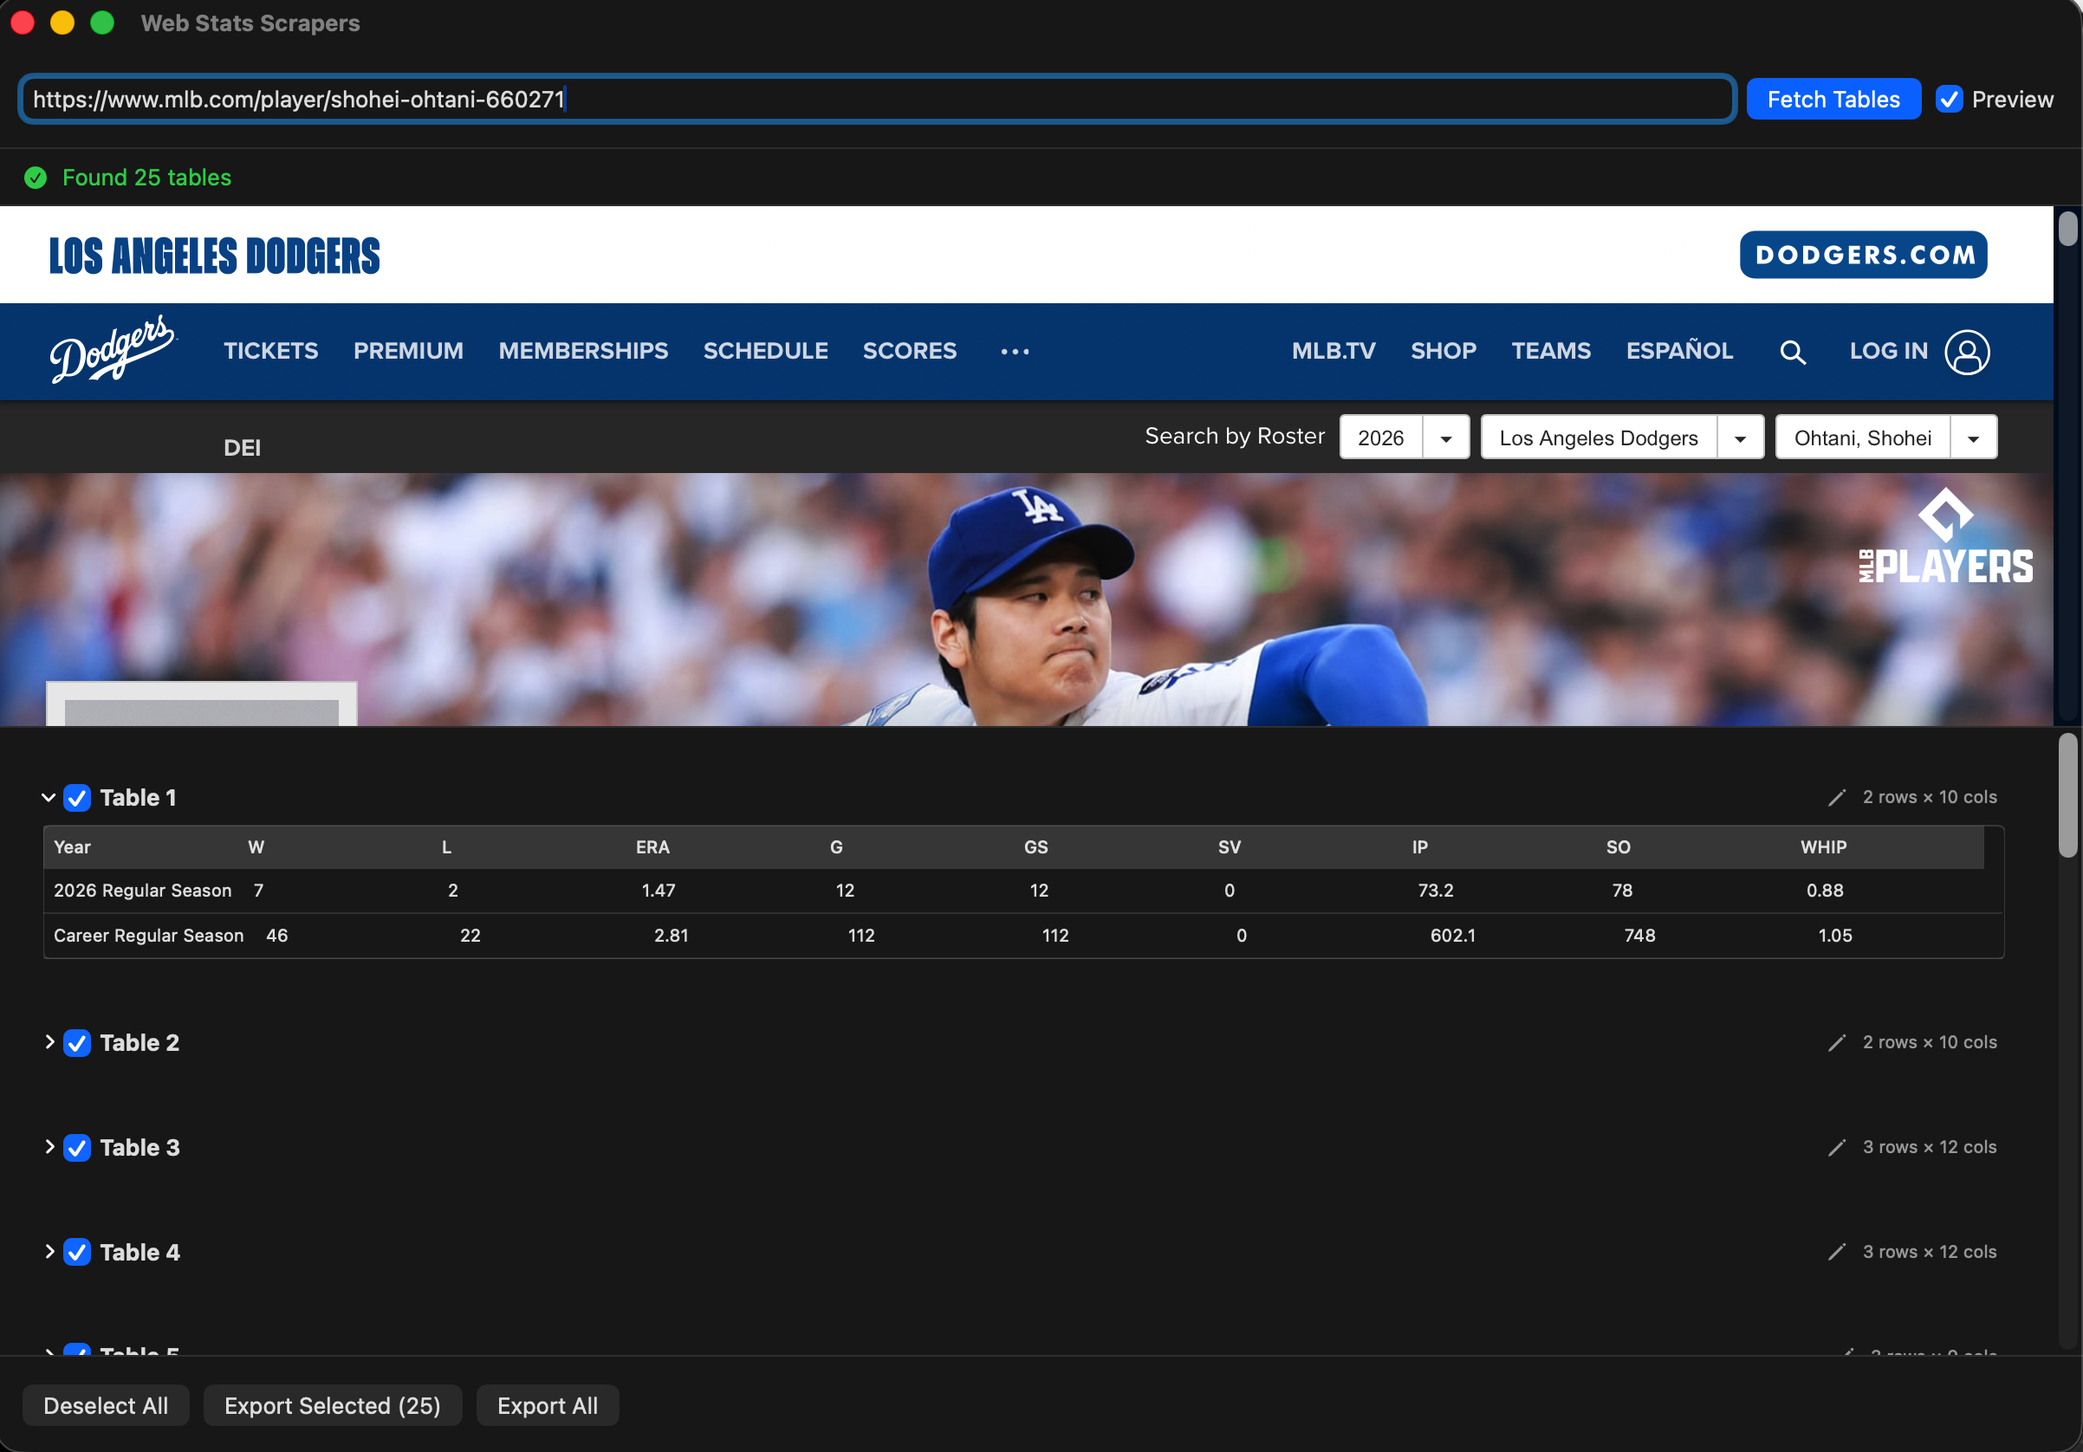
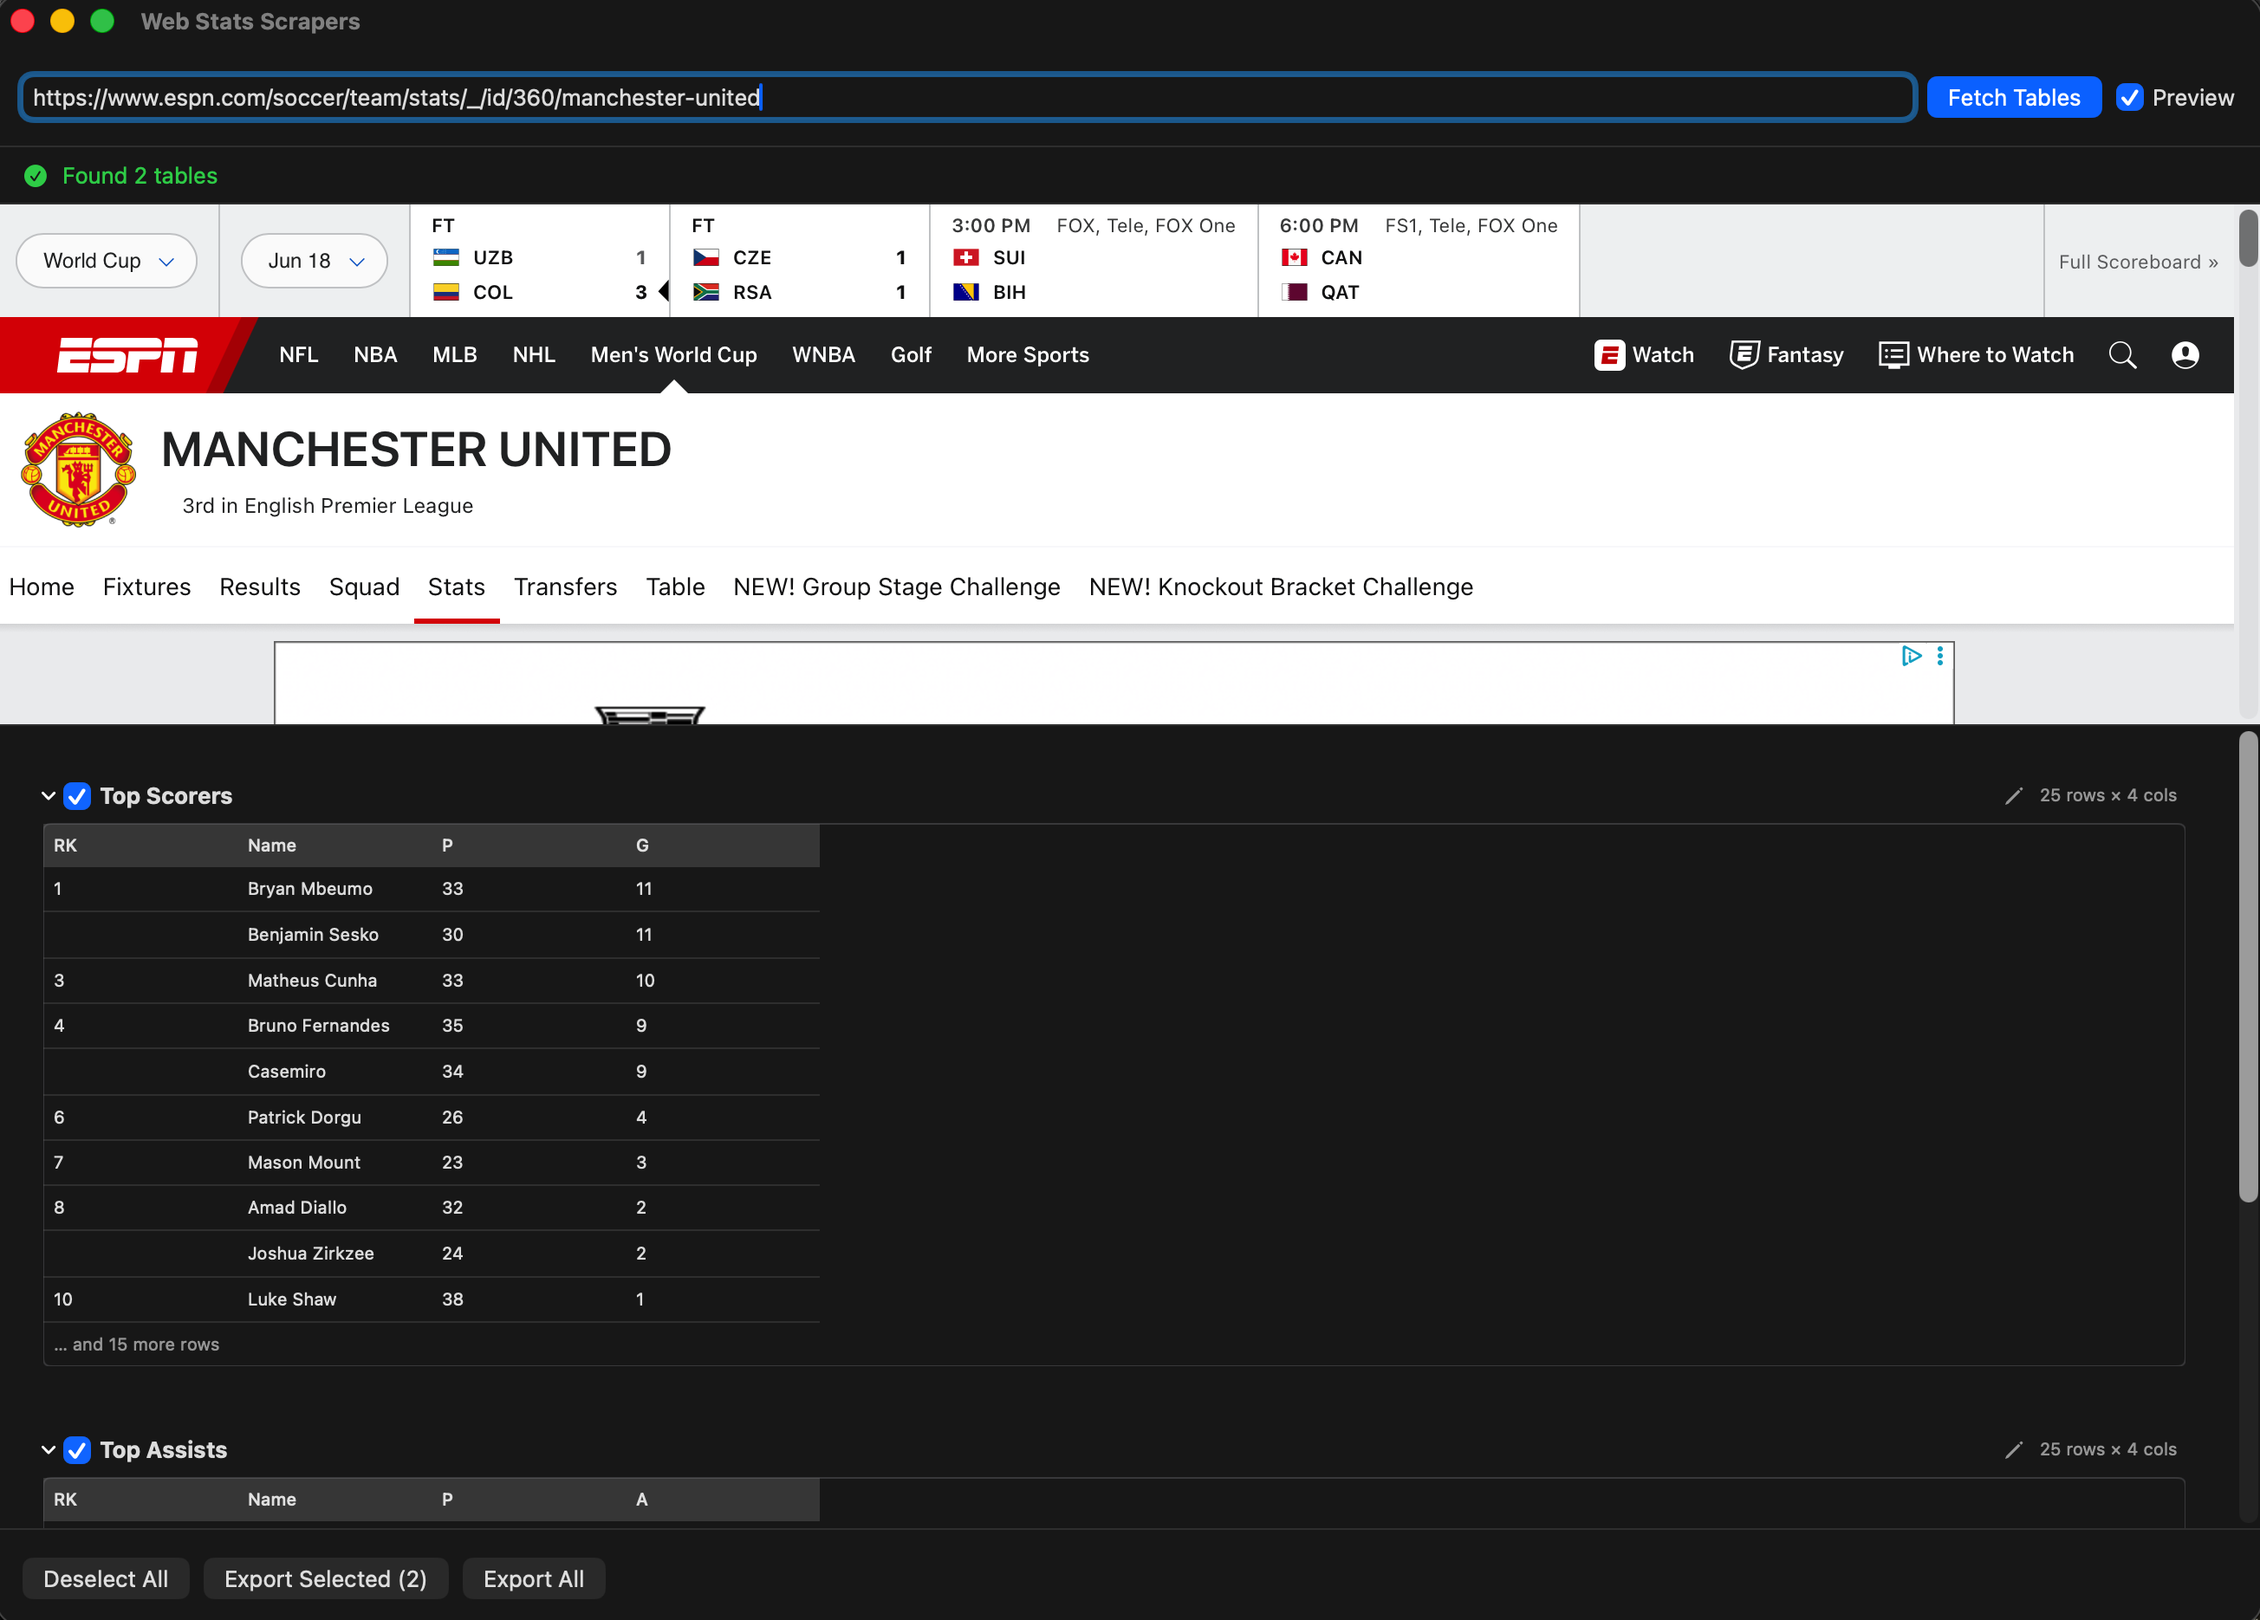
Restore table name detection; update README with bot-check guidance and new screenshot

diff --git a/SQL Python Learning/WebViewFetcher.swift b/SQL Python Learning/WebViewFetcher.swift
@@ -88,6 +88,145 @@ class WebViewFetcher: NSObject, WKNavigationDelegate {
 
     private static let extractionScript = """
     (function() {
+        // Convert a camelCase, snake_case, or kebab-case string to Title Case
+        function formatName(str) {
+            return str
+                .replace(/([a-z])([A-Z])/g, '$1 $2')
+                .split(/[_\\-\\s]+/)
+                .filter(function(p) { return p.length > 0 && !/^\\d+$/.test(p); })
+                .map(function(p) { return p.charAt(0).toUpperCase() + p.slice(1).toLowerCase(); })
+                .join(' ');
+        }
+
+        // Find the best human-readable title for a table by checking, in order:
+        // caption, ARIA/data attributes, nearby title divs, preceding headings,
+        // ancestor headings/labels/active tabs, and finally ids/class names.
+        function detectTitle(table, resultIndex) {
+            var title = '';
+
+            // 1. <caption> inside the table
+            var caption = table.querySelector('caption');
+            if (caption) title = caption.textContent.trim();
+
+            // 2. aria-label, data-title, or summary on the table itself
+            if (!title) title = (table.getAttribute('aria-label') || '').trim();
+            if (!title) title = (table.getAttribute('data-title') || '').trim();
+            if (!title) title = (table.getAttribute('summary') || '').trim();
+
+            // 3. A title div in a nearby ancestor (e.g. ESPN's .Table__Title)
+            if (!title) {
+                var anc = table.parentElement;
+                var td = 0;
+                while (anc && td < 4) {
+                    var titleDiv = anc.querySelector(':scope > .Table__Title, :scope > .table-title, :scope > [class*="title" i]');
+                    if (titleDiv) {
+                        var txt = titleDiv.textContent.trim();
+                        if (txt && txt.length < 60) { title = txt; break; }
+                    }
+                    anc = anc.parentElement;
+                    td++;
+                }
+            }
+
+            // 4. A heading among the table's preceding siblings
+            if (!title) {
+                var prev = table.previousElementSibling;
+                var attempts = 0;
+                while (prev && attempts < 5) {
+                    if (/^H[1-6]$/.test(prev.tagName)) { title = prev.textContent.trim(); break; }
+                    var innerH = prev.querySelector('h1, h2, h3, h4, h5, h6');
+                    if (innerH) { title = innerH.textContent.trim(); break; }
+                    prev = prev.previousElementSibling;
+                    attempts++;
+                }
+            }
+
+            // 5. Walk up ancestors looking for headings, labels, or active tabs
+            if (!title) {
+                var ancestor = table.parentElement;
+                var depth = 0;
+                while (ancestor && depth < 8) {
+                    var aLabel = (ancestor.getAttribute('aria-label') || '').trim();
+                    if (aLabel) { title = aLabel; break; }
+                    var dTitle = (ancestor.getAttribute('data-title') || '').trim();
+                    if (dTitle) { title = dTitle; break; }
+
+                    // Headings that are direct children of this ancestor
+                    var directHeadings = ancestor.querySelectorAll(':scope > h1, :scope > h2, :scope > h3, :scope > h4, :scope > h5, :scope > h6');
+                    if (directHeadings.length > 0) {
+                        var best = null;
+                        for (var h = 0; h < directHeadings.length; h++) {
+                            if (table.compareDocumentPosition(directHeadings[h]) & 2) best = directHeadings[h];
+                        }
+                        title = (best || directHeadings[0]).textContent.trim();
+                        break;
+                    }
+
+                    // Any heading inside this ancestor not belonging to another table
+                    var deepHeadings = ancestor.querySelectorAll('h1, h2, h3, h4, h5, h6');
+                    if (deepHeadings.length > 0) {
+                        var bestDeep = null;
+                        for (var h2 = 0; h2 < deepHeadings.length; h2++) {
+                            var hdg = deepHeadings[h2];
+                            if (hdg.closest('table')) continue;
+                            if (table.compareDocumentPosition(hdg) & 2) bestDeep = hdg;
+                        }
+                        if (bestDeep) { title = bestDeep.textContent.trim(); break; }
+                        for (var h3 = 0; h3 < deepHeadings.length; h3++) {
+                            if (!deepHeadings[h3].closest('table')) { title = deepHeadings[h3].textContent.trim(); break; }
+                        }
+                        if (title) break;
+                    }
+
+                    // An active tab label
+                    var activeTab = ancestor.querySelector('.active[role="tab"], [aria-selected="true"], .tab.active, .nav-link.active');
+                    if (activeTab) { title = activeTab.textContent.trim(); break; }
+
+                    ancestor = ancestor.parentElement;
+                    depth++;
+                }
+            }
+
+            // 6. The table's own id, formatted
+            if (!title && table.id) title = formatName(table.id);
+
+            // 7. A descriptive ancestor id or class
+            if (!title) {
+                var anc2 = table.parentElement;
+                var ad = 0;
+                while (anc2 && ad < 6) {
+                    if (anc2.id && !/^(root|app|main|content|wrapper|container|page|body)$/i.test(anc2.id)) {
+                        title = formatName(anc2.id); break;
+                    }
+                    if (typeof anc2.className === 'string' && anc2.className) {
+                        var classes = anc2.className.split(/\\s+/).filter(function(c) {
+                            return c.length > 3 &&
+                                !/^(col|row|container|wrapper|section|div|block|content|main|page|app|flex|grid|responsive|pinned|scrollable)$/i.test(c) &&
+                                !/^(d|p|m|mt|mb|ml|mr|mx|my|pt|pb|pl|pr|px|py)-/i.test(c);
+                        });
+                        if (classes.length > 0) { title = formatName(classes[0]); break; }
+                    }
+                    anc2 = anc2.parentElement;
+                    ad++;
+                }
+            }
+
+            // 8. The table's own class names
+            if (!title && typeof table.className === 'string' && table.className) {
+                var tClasses = table.className.split(/\\s+/).filter(function(c) {
+                    return c.length > 2 && !/^(table|data|stats|responsive|striped|hover|bordered)$/i.test(c);
+                });
+                if (tClasses.length > 0) title = formatName(tClasses[0]);
+            }
+
+            // 9. Fallback — number the table
+            if (!title) title = 'Table ' + (resultIndex + 1);
+
+            title = title.replace(/\\s+/g, ' ').trim();
+            if (title.length > 100) title = title.substring(0, 100).trim();
+            return title;
+        }
+
         var results = [];
         var tables = document.querySelectorAll('table');
 
@@ -102,21 +241,9 @@ class WebViewFetcher: NSObject, WKNavigationDelegate {
             var rect = table.getBoundingClientRect();
             if (rect.width === 0 && rect.height === 0) continue;
 
-            // Determine title
-            var title = '';
-            var caption = table.querySelector('caption');
-            if (caption) {
-                title = caption.textContent.trim();
-            } else if (table.id) {
-                title = table.id
-                    .split(/[_-]/)
-                    .filter(function(p) { return !/^\\d+$/.test(p); })
-                    .map(function(p) { return p.charAt(0).toUpperCase() + p.slice(1); })
-                    .join(' ');
-            } else if (table.getAttribute('aria-label')) {
-                title = table.getAttribute('aria-label').trim();
-            }
-            if (!title) title = 'Table ' + (results.length + 1);
+            // Determine title (searches caption, ARIA labels, nearby
+            // headings, tab names, ids, and class names)
+            var title = detectTitle(table, results.length);
 
             // Extract headers from <thead>
             var headers = [];

diff --git a/README.md b/README.md
@@ -6,7 +6,7 @@ Built for getting to data quickly: sports stats, reference tables, anything rend
 
 ## Screenshots
 
-| Paste a URL to start | Tables extracted, ready to export |
+| Paste a URL to start | Tables extracted with detected names, ready to export |
 | --- | --- |
 | ![Empty state](screenshots/empty-state.png) | ![Results](screenshots/results.png) |
 
@@ -42,6 +42,25 @@ Instead of downloading raw HTML and parsing it (the Beautiful Soup approach), th
 3. Review the tables that were found in the preview list
 4. Check the ones you want, optionally rename them
 5. Click **Export Selected** (or **Export All**) and choose a destination folder
+
+## Bot checks & the Preview toggle
+
+Some sites (Cloudflare-protected pages like FBref, and others with anti-bot
+protection) put up a challenge — a "Verifying you are human" / "Just a moment…"
+screen — before the real page loads. When that happens, the app may find no
+tables, or only the challenge page's content.
+
+The fix is the **Preview** checkbox in the top-right:
+
+1. Turn on **Preview** to show the live web page while it loads.
+2. Click **Fetch Tables**. If a bot check appears, complete it in the preview
+   (e.g. tick the "I'm human" box) just like you would in a normal browser.
+3. Once the real page finishes loading, the tables will be extracted.
+
+Because the app uses a real browser engine (`WKWebView`), these challenges
+behave exactly as they do in Safari — so passing them once in the preview lets
+the page through. Leaving Preview on is the simplest way to handle any site
+that occasionally throws up a verification step.
 
 ## Project structure
 
